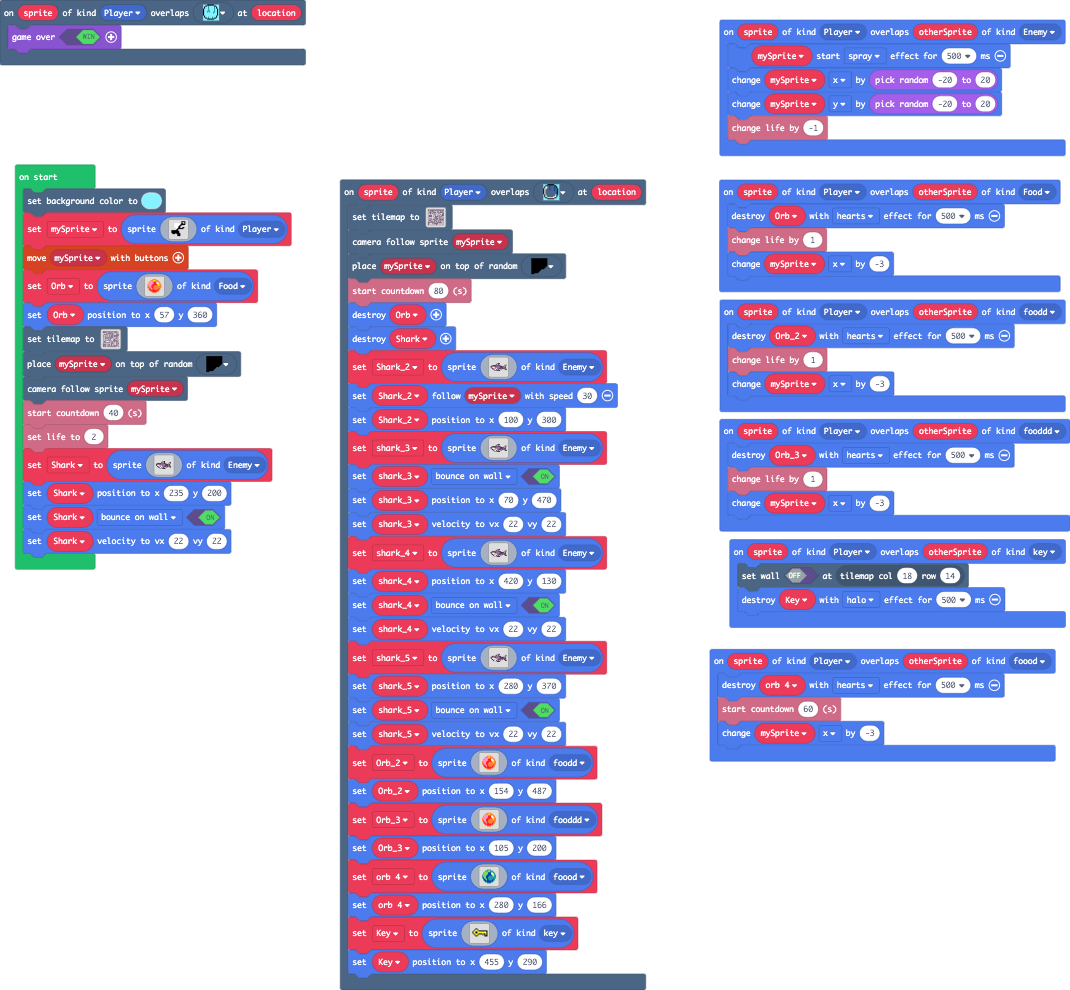
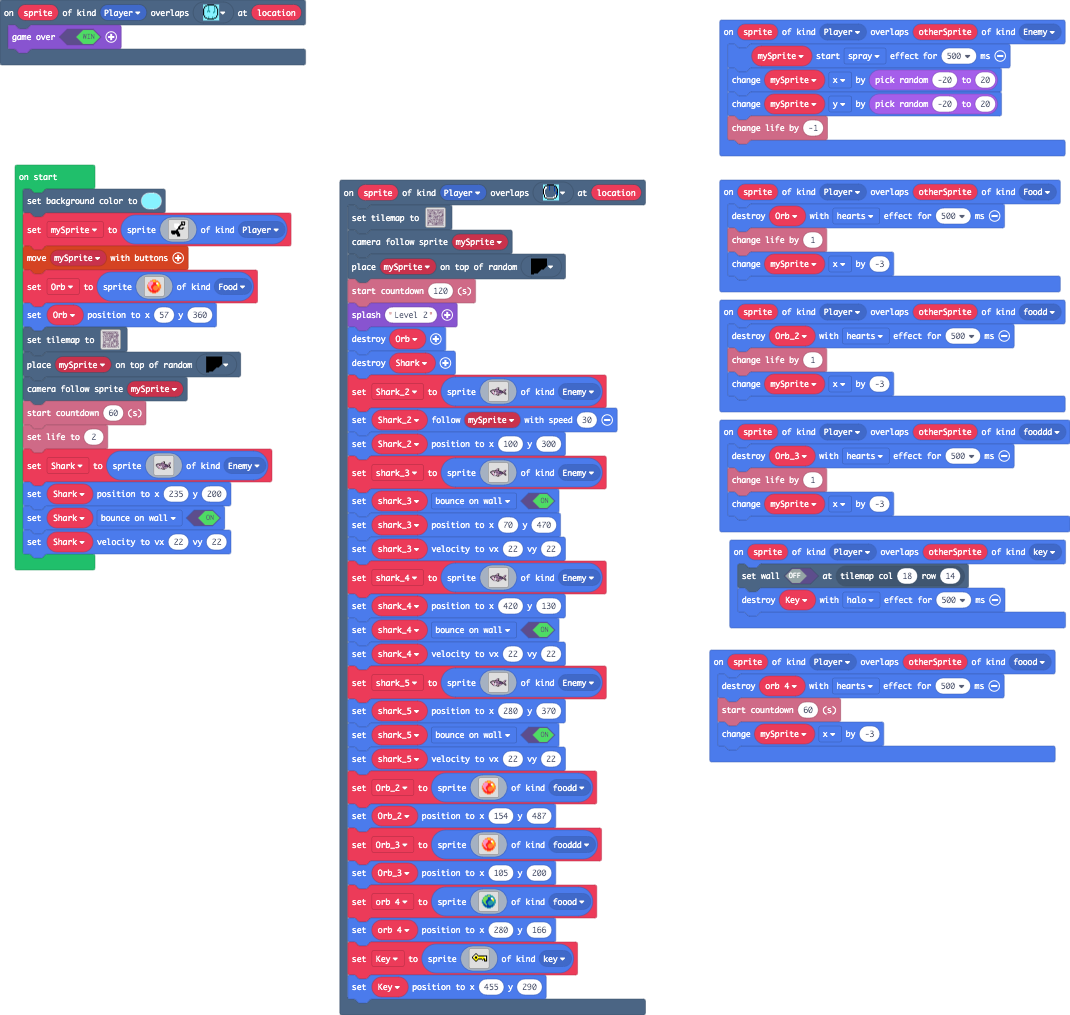
Finished Level 2

diff --git a/main.ts b/main.ts
@@ -93,7 +93,7 @@ sprites.onOverlap(SpriteKind.Player, SpriteKind.foodd, function (sprite, otherSp
 })
 scene.onOverlapTile(SpriteKind.Player, myTiles.tile2, function (sprite, location) {
     tiles.setTilemap(tiles.createTilemap(
[2 lines of base64/hex data omitted]
             img`
 2 2 2 2 2 2 2 2 2 2 2 2 2 2 2 2 2 2 2 2 2 2 2 2 2 2 2 2 2 2 2 2 
 . . . . . . . . . . . . . . . . . . . . . . . . . . . . . . . . 
@@ -117,9 +117,9 @@ scene.onOverlapTile(SpriteKind.Player, myTiles.tile2, function (sprite, location
 2 . . . 2 . . . . . 2 . . . 2 . . 2 . 2 2 2 2 2 . 2 . 2 . 2 . 2 
 2 . 2 . . 2 2 2 2 . 2 2 2 2 2 . 2 2 . 2 . . . . . 2 . 2 . 2 . 2 
 2 . 2 2 . . . . 2 . 2 . . . 2 . . 2 2 2 . 2 . 2 2 2 . 2 . 2 . 2 
-2 . 2 2 2 2 2 . 2 . 2 . 2 2 2 2 . 2 . . . 2 . 2 . 2 . 2 . . . 2 
+2 . 2 2 2 2 2 . 2 . 2 . 2 2 2 2 . . . . . 2 . 2 . 2 . 2 . . . 2 
 2 . 2 2 2 2 2 . . . 2 . . . . . . . . . . 2 . 2 . 2 . 2 2 2 2 2 
-2 . . . . 2 2 2 2 2 2 . 2 2 2 . 2 . . . . 2 . 2 2 2 . . . . . . 
+2 . . . . 2 2 2 2 2 2 . 2 2 2 . . . . . . 2 . 2 2 2 . . . . . . 
 2 2 2 2 . 2 . . . . . . . . 2 . 2 2 2 2 . 2 . . . 2 . 2 2 2 2 . 
 2 2 2 2 . 2 2 2 2 2 2 2 2 2 2 . 2 . . 2 . 2 2 2 2 2 . 2 . . 2 . 
 2 . . . . . . . . . 2 . . . . . 2 . . 2 . 2 2 2 2 2 2 2 2 2 2 2 
@@ -133,7 +133,8 @@ scene.onOverlapTile(SpriteKind.Player, myTiles.tile2, function (sprite, location
         ))
     scene.cameraFollowSprite(mySprite)
     tiles.placeOnRandomTile(mySprite, sprites.builtin.oceanDepths10)
-    info.startCountdown(80)
+    info.startCountdown(120)
+    game.splash("Level 2")
     Orb.destroy()
     Shark.destroy()
     Shark_2 = sprites.create(img`
@@ -384,7 +385,7 @@ tiles.setTilemap(tiles.createTilemap(
         ))
 tiles.placeOnRandomTile(mySprite, sprites.builtin.oceanDepths10)
 scene.cameraFollowSprite(mySprite)
-info.startCountdown(40)
+info.startCountdown(60)
 info.setLife(2)
 Shark = sprites.create(img`
 . . . . . . . . . . . . . . c f f f . . . . . . . . . . . . . . 
